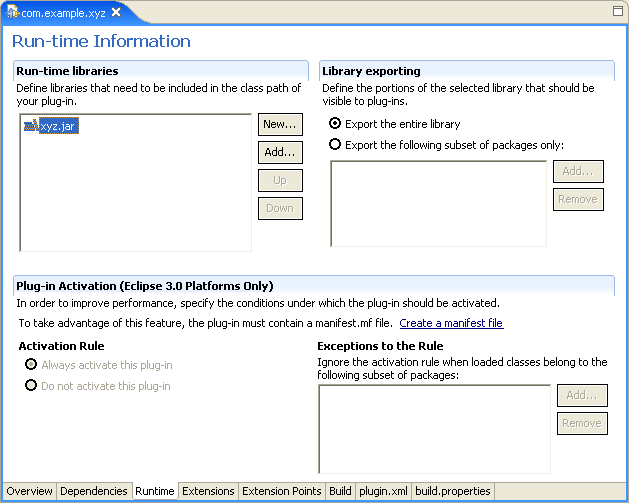
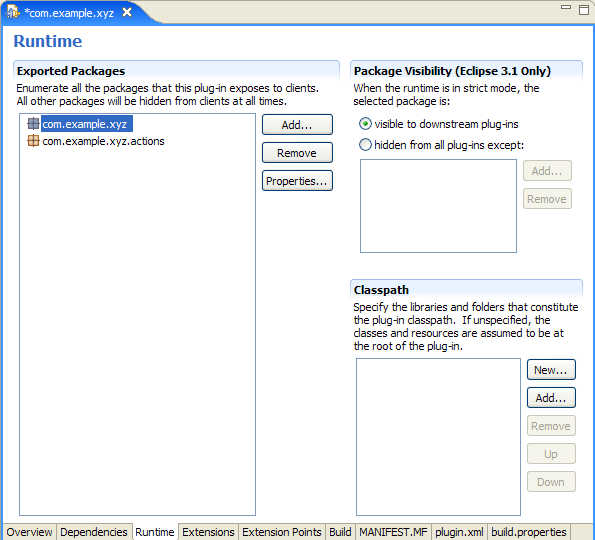
*** empty log message ***

Changed region(s): [[0.0, 0.0, 1.0, 1.0], [0.605, 0.4473, 0.8773, 0.4771]]

diff --git a/bundles/org.eclipse.pde.doc.user/guide/pde_manifest_runtime.htm b/bundles/org.eclipse.pde.doc.user/guide/pde_manifest_runtime.htm
@@ -10,26 +10,19 @@
 <BODY BGCOLOR="#ffffff">
 
 <h2>Runtime page</h2>
-<p>The Runtime page shows information about run-time libraries. When packaged, 
-platform plug-ins deliver all of their Java classes in JAR libraries. </p>
-<p align="center">
-<img src="images/plugin-runtime.png" alt="Runtime editor page" border="0" ></p>
-<p>You can also determine exporting rules for your libraries. By default, no 
-classes in your libraries can be seen by others. This is appropriate if your 
-plug-in is not meant to be extended. If your classes should be visible to other 
-plug-ins, the libraries must be exported. You can export the entire library or 
-just a subset of packages.</p>
-<p>The first time a class is accessed from one of your plug-in's libraries at 
-runtime, the plug-in gets activated.&nbsp; In 3.0, this activation is selective.&nbsp; 
-You can specify the conditions when your plug-in should be activated at runtime, 
-thus potentially reducing overhead and memory footprint.&nbsp; This 
-functionality is only available for plug-ins that have an OSGi bundle 
-manifest.mf file.&nbsp; Therefore, if you want to take advantage of this 
-functionality, PDE provides a link in the <b>Plug-in Activation</b> section that 
-will create a manifest.mf file for your plug-in with all the correct contents on 
-the fly.</p>
-
-
+<p align="left">The <strong>Runtime</strong> page shows all the packages that 
+  your plug-in makes visible to other plug-ins. </p>
+<p align="left">Press the <strong>Add...</strong> button in the <strong>Exported 
+  Packages</strong> section to add the <em>com.example.xyz</em> and <em>com.example.xyz.actions</em> 
+  packages to the list.</p>
+<p align="center"> <img src="images/plugin-runtime.png" alt="Runtime editor page" border="0" ></p>
+<p>The <strong>Package Visibility</strong> section allows you to control on a 
+  per-package basis the visibility of your plug-in code to downstream plug-ins. 
+  Refer to the <a href="restrictions.htm">Access Restrictions</a> document for 
+  full details.</p>
+<p>The <strong>Classpath</strong> section is the place to declare the names of 
+  the libraries that constitute the plug-in classpath. Since JAR'd plug-ins are 
+  the recommended format for 3.1, it is recommended to leave this section blank.</p>
 </body>
 
 </html>
